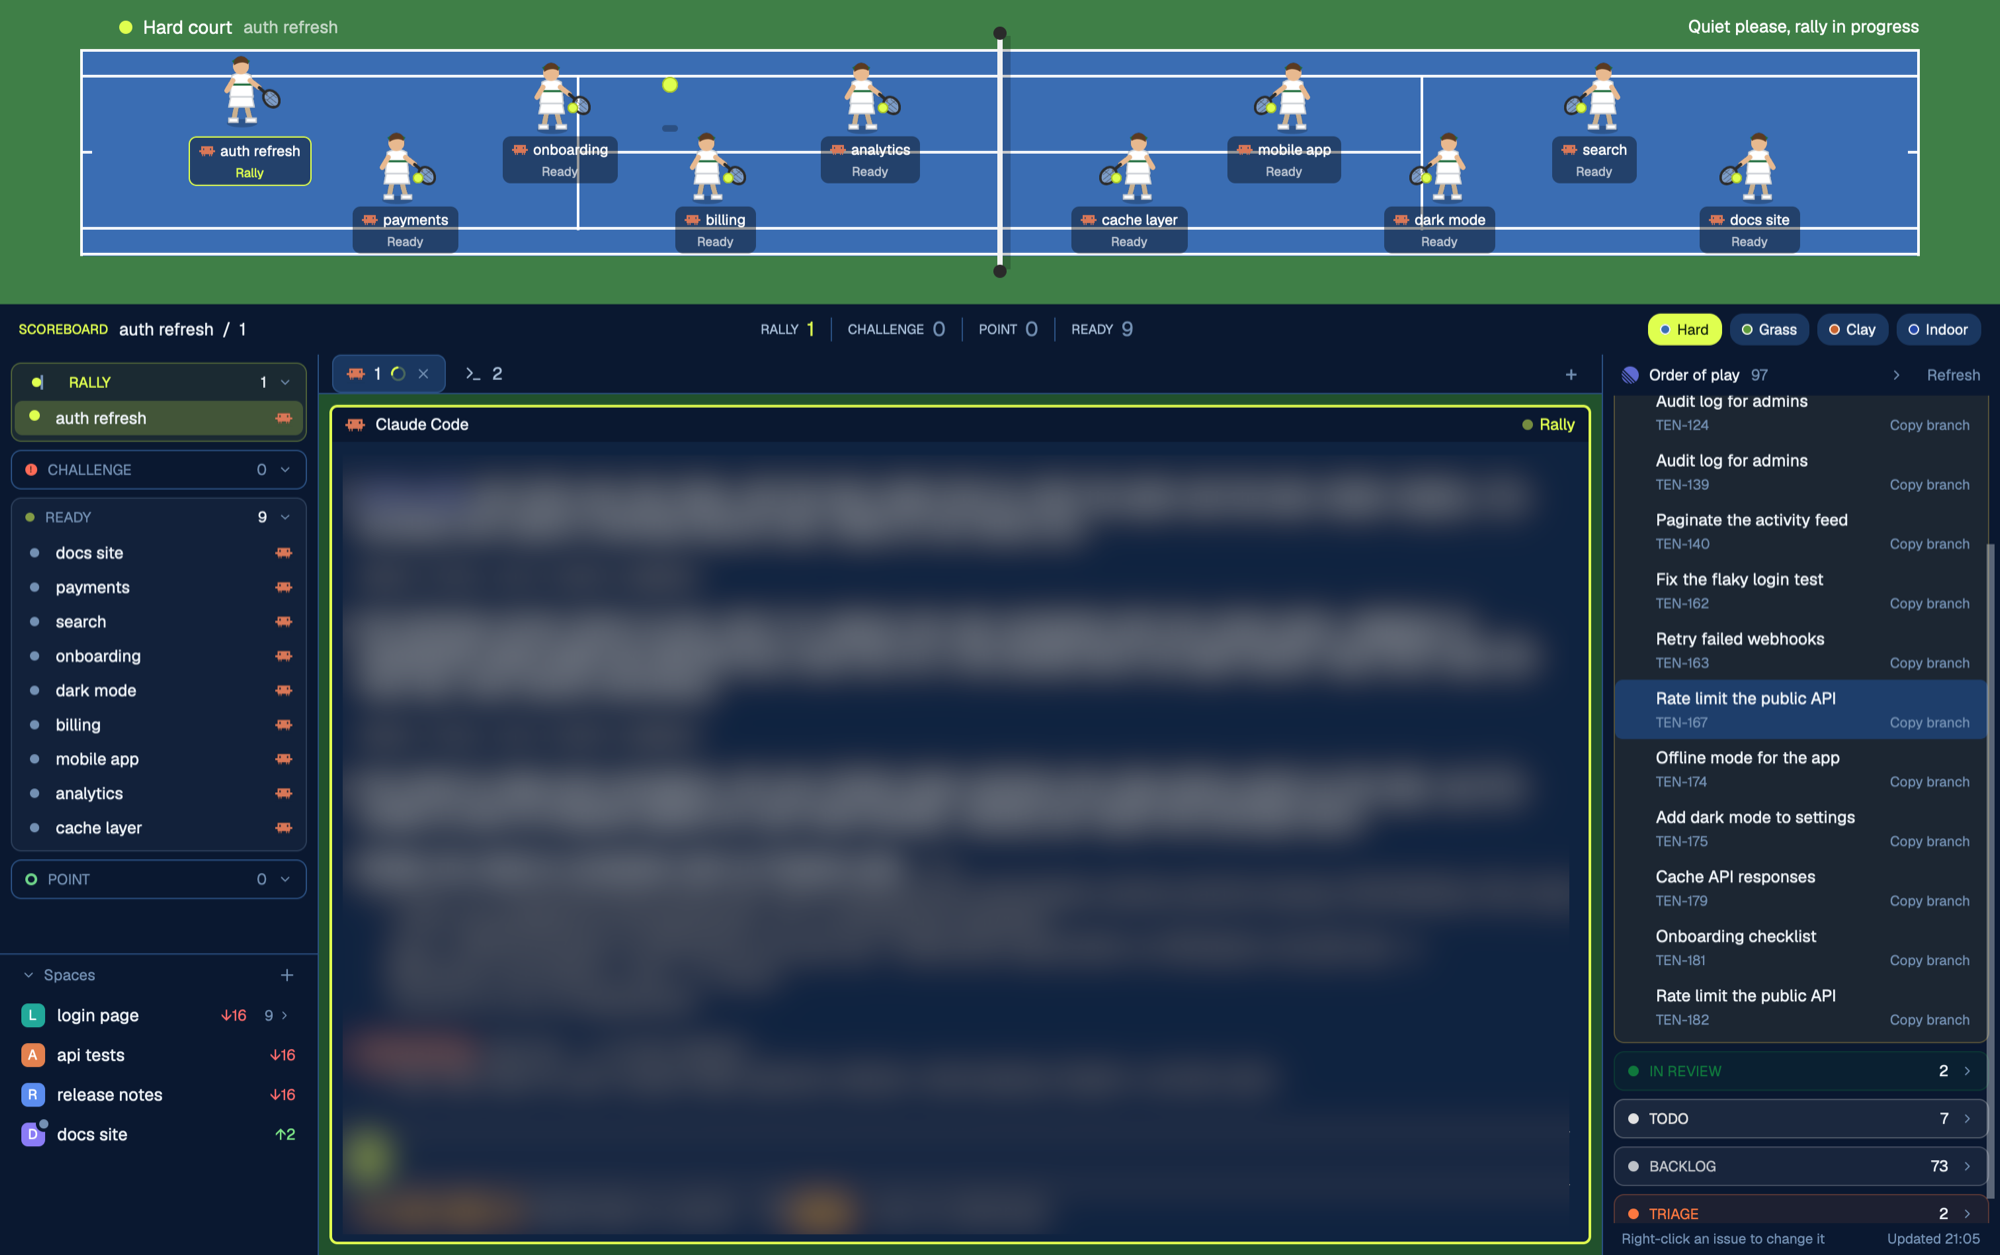
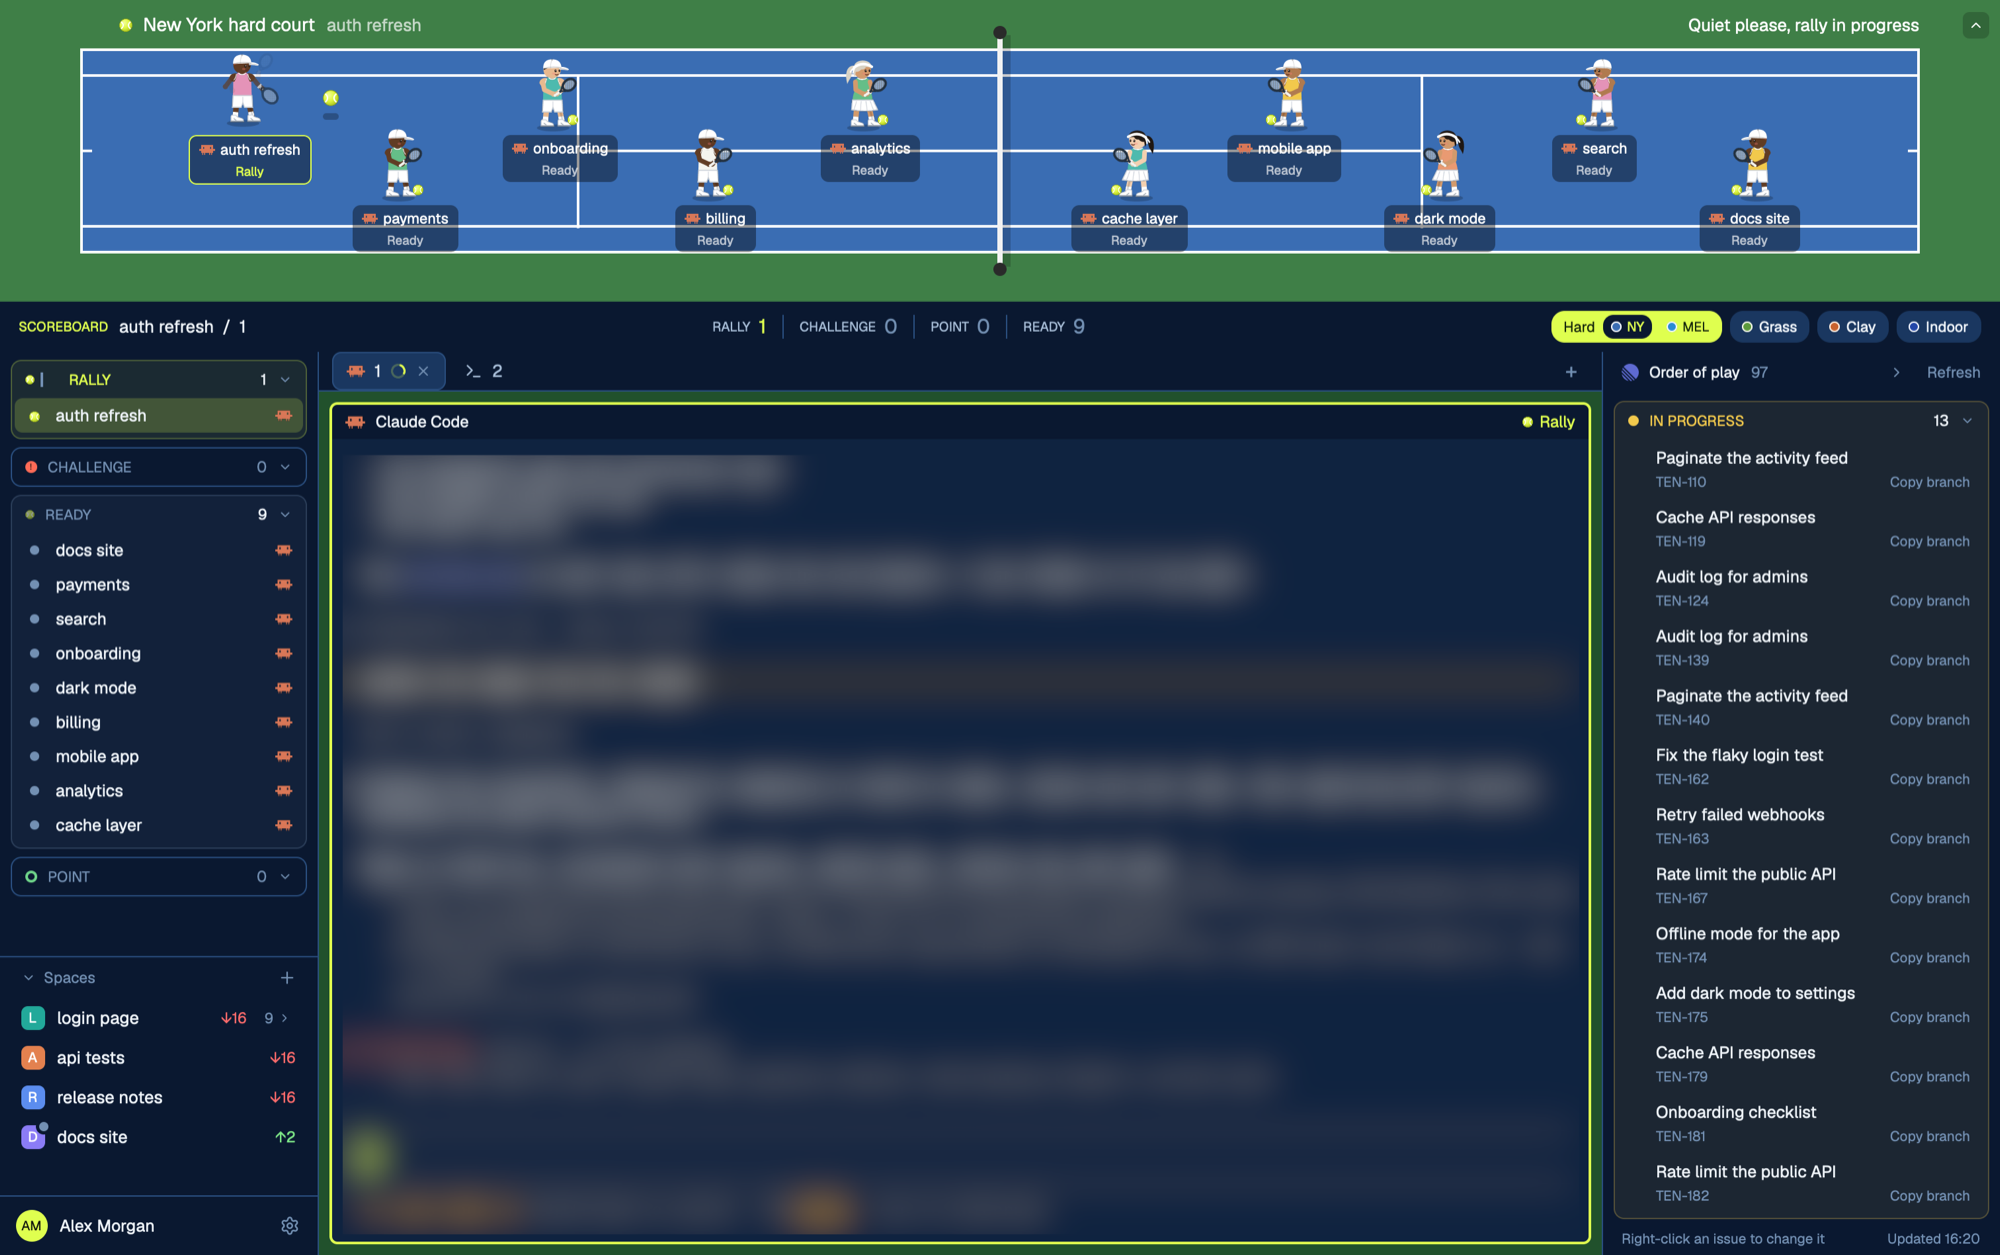
Retake the preview with the redrawn players and tennis balls

diff --git a/README.md b/README.md
@@ -2,7 +2,7 @@
 
 The [Tennis](https://github.com/eduardafa/herdr-tennis) layout for the [Herdr app](https://herdr.dev), with your Linear issues beside it: see which issue each agent is playing, change issues without leaving Herdr, and serve one to a new agent in a fresh worktree.
 
-![Tennis + Linear](preview.png?v=1)
+![Tennis + Linear](preview.png?v=2)
 
 ## Install
 
